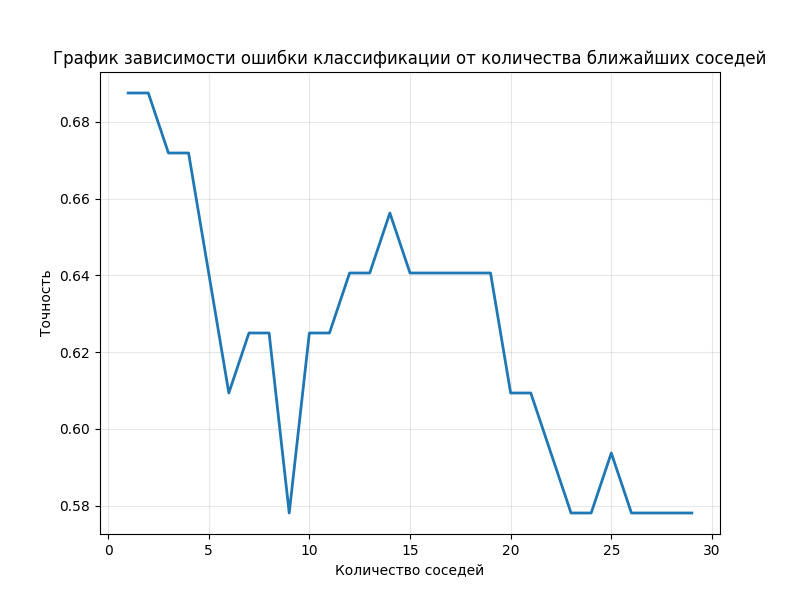
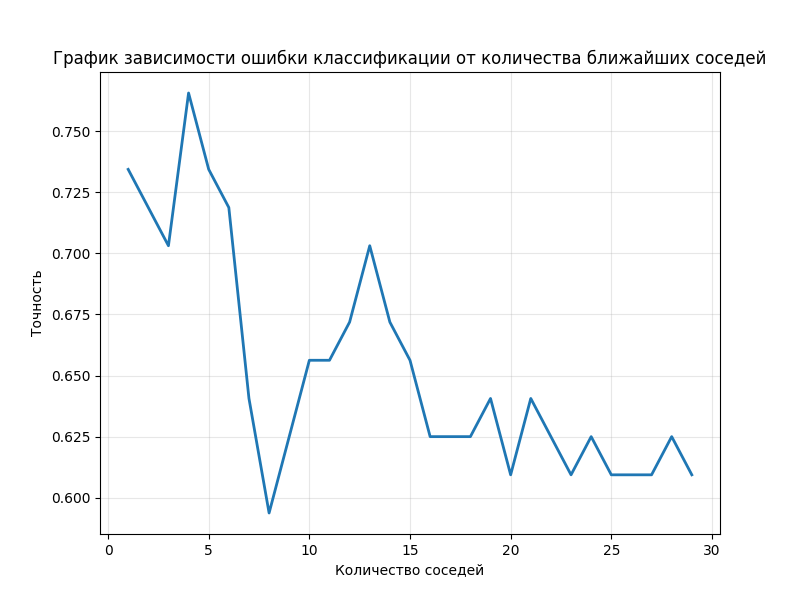
plot1*

diff --git a/lab1/3/main.py b/lab1/3/main.py
@@ -24,7 +24,7 @@ with open(FILENAME, "r", newline="") as file:
     for row in reader:
         data.append(list(map(float, row[1:])))
 
-random.seed(42)
+random.seed(41)
 
 random.shuffle(data)
 target = []
